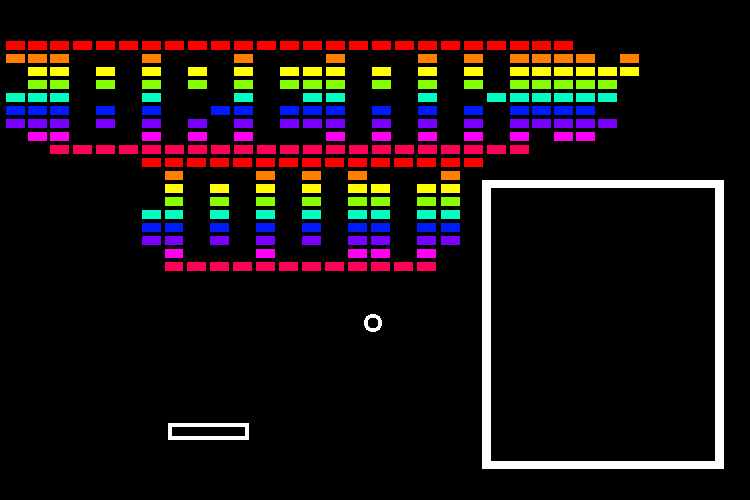
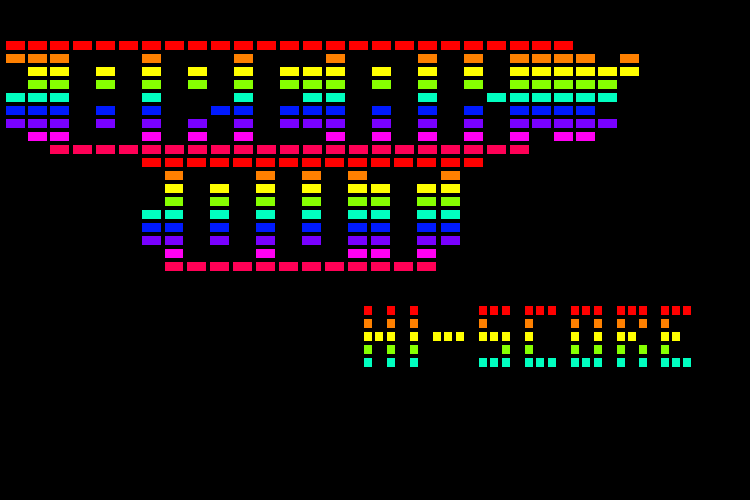
Fixed the lose screen and added in replay

Changed region(s): [[0.46, 0.36, 0.9813, 0.96], [0.2147, 0.84, 0.3373, 0.9]]

diff --git a/Programming Coursework/cGameStuVer.cpp b/Programming Coursework/cGameStuVer.cpp
@@ -53,6 +53,7 @@ void cGame::initialise(SDL_Window* theSDLWND, SDL_Renderer* theRenderer)
 	this->m_lastTime = high_resolution_clock::now();
 
 	playerScore = 0;  // reset score
+	highScore = 3000;
 
 	theTextureMgr->setRenderer(theRenderer);
 	theTextureMgr->addTexture("theBackground", "Images\\background.png"); // add textures from the images folder
@@ -89,9 +90,9 @@ void cGame::initialise(SDL_Window* theSDLWND, SDL_Renderer* theRenderer)
 	theTextureMgr->addTexture("rightArrow", "Images\\right.png");
 	theTextureMgr->addTexture("spacebar", "Images\\space.png");
 
-	btnNameList = { "play_btn", "scores_btn", "quit_btn", "menu_btn" };
-	btnTexturesToUse = { "Images\\GoButton.png", "Images\\ScoresButton.png", "Images\\QuitButton.png", "Images\\MenuButton.png" };
-	btnPos = { { 500, 175 }, { 500, 250 }, { 500, 325 }, { 100, 400 }};
+	btnNameList = { "play_btn", "scores_btn", "quit_btn", "menu_btn", "replay_btn" };
+	btnTexturesToUse = { "Images\\GoButton.png", "Images\\ScoresButton.png", "Images\\QuitButton.png", "Images\\MenuButton.png", "Images\\ReplayButton.png" };
+	btnPos = { { 500, 250 }, { 500, 325 }, { 500, 400 }, { 100, 400 }, {150,400} };
 	for (unsigned int bCount = 0; bCount < btnNameList.size(); bCount++)
 	{
 		theTextureMgr->addTexture(btnNameList[bCount], btnTexturesToUse[bCount]);
@@ -188,7 +189,7 @@ void cGame::initialise(SDL_Window* theSDLWND, SDL_Renderer* theRenderer)
 	{
 		theFontMgr->addFont(fontList[fonts], fontsToUse[fonts], 36);
 	}
-	gameTextList = { "Breakout!", "Score: " };
+	gameTextList = { "Breakout!", "Score: ", "High score: " };
 	strScore = gameTextList[1];
 	strScore += to_string(playerScore).c_str();
 
@@ -205,6 +206,8 @@ void cGame::initialise(SDL_Window* theSDLWND, SDL_Renderer* theRenderer)
 	
 	theTextureMgr->addTexture("Title", theFontMgr->getFont("ka1")->createTextTexture(theRenderer, gameTextList[0], textType::solid, { colourVal, colourVal, colourVal, 255 }, { 0, 0, 0, 0 }));
 	theTextureMgr->addTexture("playerScore", theFontMgr->getFont("ka1")->createTextTexture(theRenderer, strScore.c_str(), textType::solid, { colourVal, colourVal, colourVal, 255 }, { 0, 0, 0, 0 }));
+
+
 	theTextureMgr->addTexture("theBall", "Images\\ball.png"); // texture and position the ball on top of the paddle
 
 	ballSprite.setSpritePos({ (375 - ((theTextureMgr->getTexture("theBall")->getTWidth()) / 2)), (450-(theTextureMgr->getTexture("theBall")->getTHeight())) });
@@ -332,25 +335,22 @@ void cGame::render(SDL_Window* theSDLWND, SDL_Renderer* theRenderer)
 			{
 				spriteBkgd.setTexture(theTextureMgr->getTexture("winBackground"));
 				spriteBkgd.render(theRenderer, NULL, NULL, spriteBkgd.getSpriteScale());
-
-				theTextureMgr->addTexture("playerScore", theFontMgr->getFont("ka1")->createTextTexture(theRenderer, strScore.c_str(), textType::solid, { colourVal, colourVal, colourVal,255 }, { 0, 0, 0, 0 }));
-				cTexture* tempTextTexture = theTextureMgr->getTexture("playerScore");
-				SDL_Rect pos = { (700 - tempTextTexture->getTextureRect().w), 300, tempTextTexture->getTextureRect().w, tempTextTexture->getTextureRect().h };
-				FPoint scale = { 1,1 };
-				tempTextTexture->renderTexture(theRenderer, tempTextTexture->getTexture(), &tempTextTexture->getTextureRect(), &pos, scale);
 			}
 			else 
 			{
 				spriteBkgd.setTexture(theTextureMgr->getTexture("loseBackground"));
 				spriteBkgd.render(theRenderer, NULL, NULL, spriteBkgd.getSpriteScale());
-
-				theTextureMgr->addTexture("playerScore", theFontMgr->getFont("ka1")->createTextTexture(theRenderer, strScore.c_str(), textType::solid, { colourVal, colourVal, colourVal,255 }, { 0, 0, 0, 0 }));
-				cTexture* tempTextTexture = theTextureMgr->getTexture("playerScore");
-				SDL_Rect pos = { (700 - tempTextTexture->getTextureRect().w), 300, tempTextTexture->getTextureRect().w, tempTextTexture->getTextureRect().h };
-				FPoint scale = { 1,1 };
-				tempTextTexture->renderTexture(theRenderer, tempTextTexture->getTexture(), &tempTextTexture->getTextureRect(), &pos, scale);
 			}
 			
+			theButtonMgr->getBtn("replay_btn")->render(theRenderer, &theButtonMgr->getBtn("replay_btn")->getSpriteDimensions(), &theButtonMgr->getBtn("replay_btn")->getSpritePos(), theButtonMgr->getBtn("replay_btn")->getSpriteScale());
+			theButtonMgr->getBtn("quit_btn")->render(theRenderer, &theButtonMgr->getBtn("quit_btn")->getSpriteDimensions(), &theButtonMgr->getBtn("quit_btn")->getSpritePos(), theButtonMgr->getBtn("quit_btn")->getSpriteScale());
+
+			theTextureMgr->addTexture("playerScore", theFontMgr->getFont("ka1")->createTextTexture(theRenderer, strScore.c_str(), textType::solid, { colourVal, colourVal, colourVal,255 }, { 0, 0, 0, 0 }));
+			cTexture* tempTextTexture = theTextureMgr->getTexture("playerScore");
+			SDL_Rect pos = { (700 - tempTextTexture->getTextureRect().w), 300, tempTextTexture->getTextureRect().w, tempTextTexture->getTextureRect().h };
+			FPoint scale = { 1,1 };
+			tempTextTexture->renderTexture(theRenderer, tempTextTexture->getTexture(), &tempTextTexture->getTextureRect(), &pos, scale);
+
 		}
 		break;
 	}
@@ -395,6 +395,7 @@ void cGame::update(double deltaTime)
 
 	case gameState::playing:
 	{
+
 		paddleSprite.update(deltaTime); // call the update methods of paddle/ball scripts to allow continuous movement
 		ballSprite.update(deltaTime);
 
@@ -544,24 +545,27 @@ void cGame::update(double deltaTime)
 					ballSprite.yVelocity *= -1;
 				}
 			}
+			
+		}
+		// check if the player has won
+		if (playerScore >= 7200)
+		{
+			theGameState = gameState::end;
+		}
 
-			// check if the player has won
-			if (playerScore >= 7200) 
-			{
-				theGameState = gameState::end;
-			}
-
-			if ((ballSprite.getSpritePos().y) >= 480) 
-			{
-				theGameState = gameState::end;
-			}
+		if (ballSprite.outOfBounds)
+		{
+			theGameState = gameState::end;
 		}
 	}
 	break;
 
 	case gameState::end:
 	{
+		theGameState = theButtonMgr->getBtn("replay_btn")->update(theGameState, gameState::playing, theAreaClicked);
+		theGameState = theButtonMgr->getBtn("quit_btn")->update(theGameState, gameState::exit, theAreaClicked);
 
+		if (theGameState == gameState::playing) resetGame();
 	}
 	break;
 
@@ -571,7 +575,7 @@ void cGame::update(double deltaTime)
 	}
 	break;
 	}
-	
+
 }
 
 bool cGame::getInput(bool theLoop)
@@ -584,6 +588,8 @@ bool cGame::getInput(bool theLoop)
 		{
 			theLoop = false;
 		}
+		
+		theAreaClicked = { 0,0 }; // set areaclicked back to nothing first otherwise a mouse click will persist after the update
 
 		switch (event.type)
 		{
@@ -592,6 +598,7 @@ bool cGame::getInput(bool theLoop)
 			{
 			case SDL_BUTTON_LEFT:
 			{
+				theSoundMgr->getSnd("click")->play(0);
 				theAreaClicked = { event.motion.x, event.motion.y };
 			}
 			break;
@@ -678,6 +685,7 @@ bool cGame::getInput(bool theLoop)
 				cout << ballSprite.isMoving;
 				break;
 
+				// "cheat" for testing end screens
 			case SDLK_q:
 				playerScore = 7200;
 				break;
@@ -704,6 +712,91 @@ double cGame::getElapsedSeconds()
 void cGame::resetGame()
 {
 	playerScore = 0;
+
+	paddleSprite.setSpritePos({ (375 - ((theTextureMgr->getTexture("thePaddle")->getTWidth()) / 2)), 450 });
+	paddleSprite.setTexture(theTextureMgr->getTexture("thePaddle"));
+	spriteBkgd.setSpriteDimensions(theTextureMgr->getTexture("thePaddle")->getTWidth(), theTextureMgr->getTexture("thePaddle")->getTHeight());
+	ballSprite.setSpritePos({ (375 - ((theTextureMgr->getTexture("theBall")->getTWidth()) / 2)), (450 - (theTextureMgr->getTexture("theBall")->getTHeight())) });
+	ballSprite.setTexture(theTextureMgr->getTexture("theBall"));
+	spriteBkgd.setSpriteDimensions(theTextureMgr->getTexture("theBall")->getTWidth(), theTextureMgr->getTexture("theBall")->getTHeight());
+
+	ballSprite.outOfBounds = false;
+	ballSprite.isMoving = false;
+
+	int xPos = 40; // declare variables representing the size of each block
+	int yPos = 20;
+
+	for (int i = 0; i < 16; i++) // for each block in the 16x9 array 
+	{
+		for (int j = 0; j < 9; j++)
+		{
+			blocks[i][j].setSpritePos({ (i * xPos) + 55,(j*yPos) + 60 });  // position the block according to i and j values
+
+			numberOfBlocks++;
+
+			// switch statement to determine which colour is assigned to the block, depending on the row (j)
+			// each colour has a different score value
+			switch (j)
+			{
+			case 0:
+			{
+				blocks[i][j].setTexture(theTextureMgr->getTexture("theRedBlock"));
+				blocks[i][j].scoreValue = 90;
+			}
+			break;
+			case 1:
+			{
+				blocks[i][j].setTexture(theTextureMgr->getTexture("theOrangeBlock"));
+				blocks[i][j].scoreValue = 80;
+			}
+			break;
+			case 2:
+			{
+				blocks[i][j].setTexture(theTextureMgr->getTexture("theYellowBlock"));
+				blocks[i][j].scoreValue = 70;
+			}
+			break;
+			case 3:
+			{
+				blocks[i][j].setTexture(theTextureMgr->getTexture("theGreenBlock"));
+				blocks[i][j].scoreValue = 60;
+			}
+			break;
+			case 4:
+			{
+				blocks[i][j].setTexture(theTextureMgr->getTexture("theBlueBlock"));
+				blocks[i][j].scoreValue = 50;
+			}
+			break;
+			case 5:
+			{
+				blocks[i][j].setTexture(theTextureMgr->getTexture("theDarkBlueBlock"));
+				blocks[i][j].scoreValue = 40;
+			}
+			break;
+			case 6:
+			{
+				blocks[i][j].setTexture(theTextureMgr->getTexture("thePurpleBlock"));
+				blocks[i][j].scoreValue = 30;
+			}
+			break;
+			case 7:
+			{
+				blocks[i][j].setTexture(theTextureMgr->getTexture("thePinkBlock"));
+				blocks[i][j].scoreValue = 20;
+			}
+			break;
+			case 8:
+			{
+				blocks[i][j].setTexture(theTextureMgr->getTexture("theMagentaBlock"));
+				blocks[i][j].scoreValue = 10;
+			}
+			break;
+			}
+			blocks[i][j].initialise(); // set the bounding rectangle for each block from cBlock
+
+		}
+	}
 }
 
 

diff --git a/Programming Coursework/cBall.cpp b/Programming Coursework/cBall.cpp
@@ -11,6 +11,7 @@ void cBall::initialise()
 	xVelocity = -1;
 	yVelocity = 1;
 	isMoving = false;
+	outOfBounds = false;
 	cout << isMoving;
 	setBoundingRect();
 	radius = 10;
@@ -48,7 +49,7 @@ void cBall::update(double deltaTime)
 		}
 		else
 		{
-			yVelocity = 1;
+			outOfBounds = true;
 		}
 
 		if (currentPos.y > 0) {

diff --git a/Programming Coursework/cBall.h b/Programming Coursework/cBall.h
@@ -10,6 +10,7 @@ public:
 	bool isMoving;
 	bool isGoingLeft;
 	bool isGoingRight;
+	bool outOfBounds;
 	int radius;
 
 	void initialise();		// Default render function

diff --git a/Programming Coursework/cGame.h b/Programming Coursework/cGame.h
@@ -78,6 +78,8 @@ private:
 	cTexture* tempTextTexture;
 	SDL_Point theAreaClicked;
 	bool loop;
+	bool playingAgain;
+	int highScore;
 	void resetGame();
 };
 
